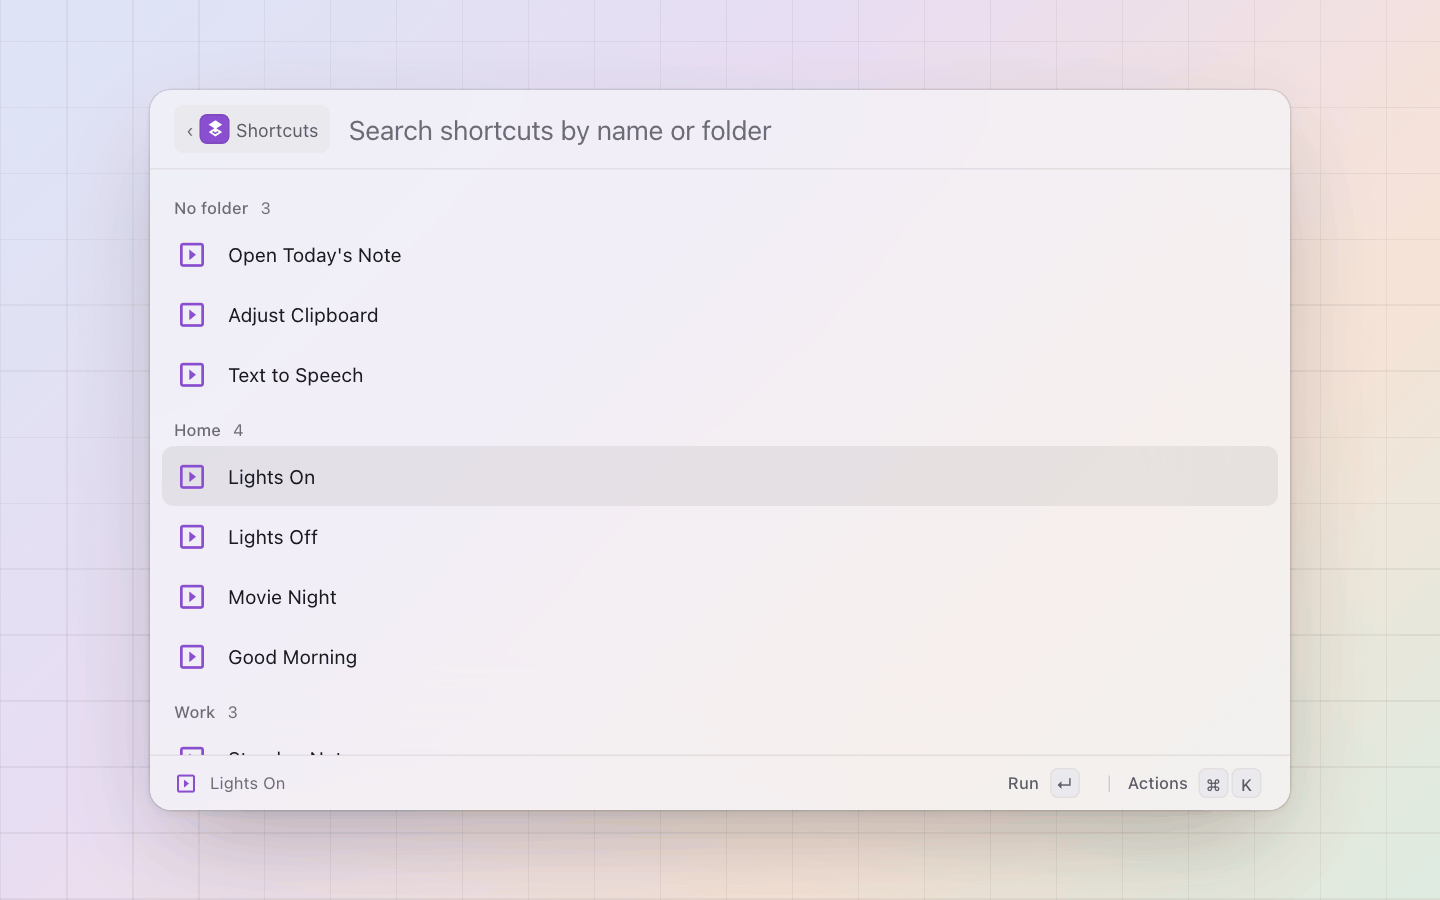
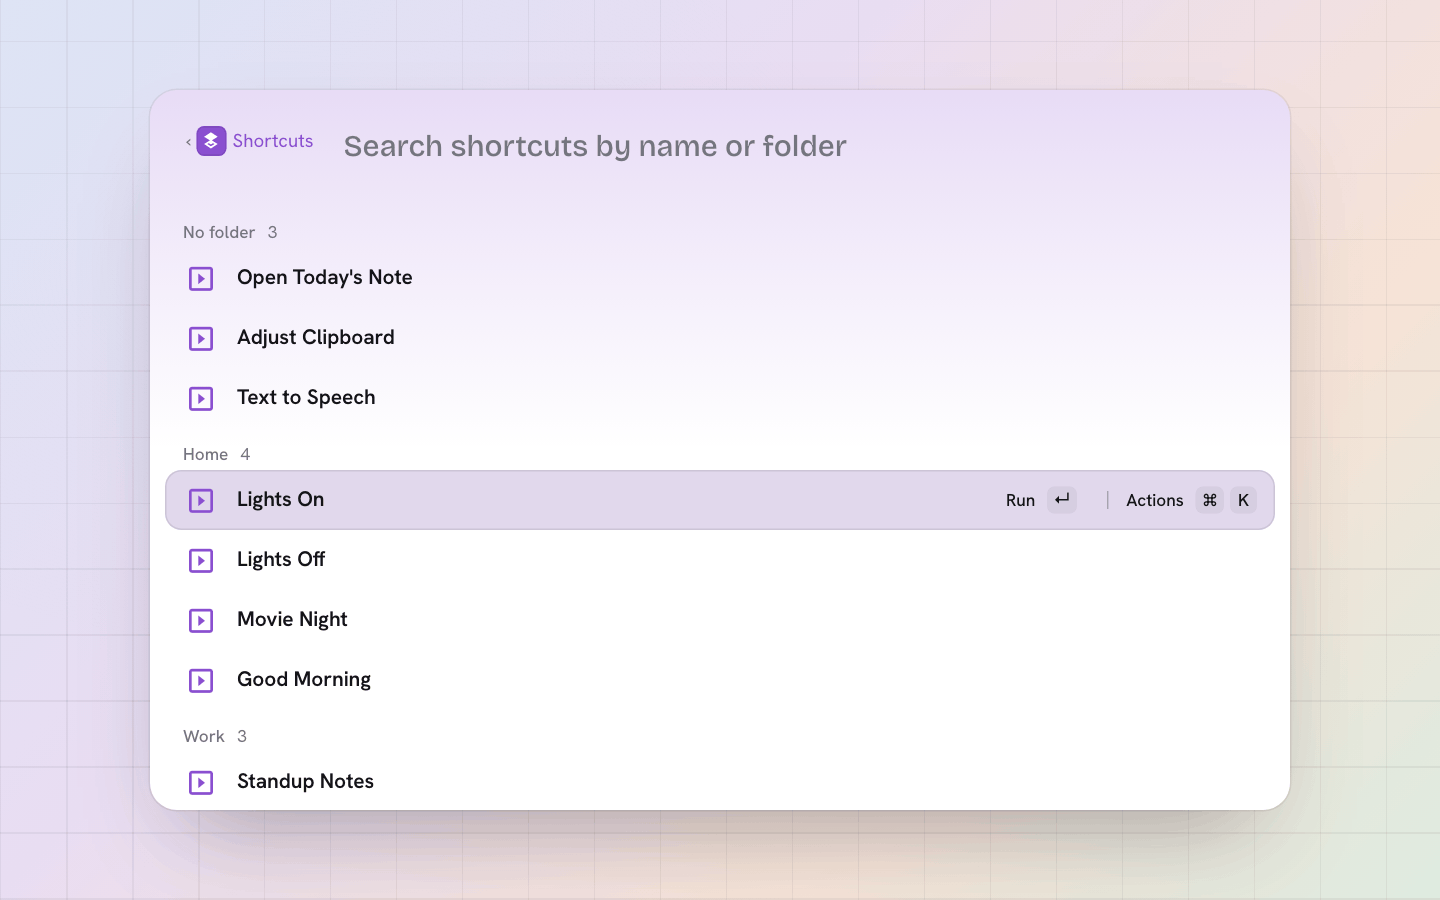
shortcuts: the detail leads with the folder and the name; Run with input named the same everywhere (the clipboard toast, the fixture, the docs); Ink screenshots

diff --git a/shortcuts/fixture.ts b/shortcuts/fixture.ts
@@ -1,7 +1,7 @@
 // Writes app/src/gallery/shots/shortcuts.json, the store screenshots'
 // fixture: rows shaped as `row()` in index.ts shapes them, from made-up
 // shortcuts in three folders (nothing is read from this Mac), plus the
-// Run with text form the shot opens. `bun run extensions/shortcuts/fixture.ts`,
+// Run with input form the shot opens. `bun run extensions/shortcuts/fixture.ts`,
 // then `node app/scripts/shots.mjs shortcuts`.
 import { pinClock, writeFixture } from "../../app/scripts/fixture-kit.ts";
 import manifest from "./pal.json" with { type: "json" };
@@ -11,7 +11,7 @@ pinClock();
 
 const ICON = "\u{f040b}";
 const ACTIONS = [
-  { id: "run", title: "Run" }, { id: "clipboard", title: "Run with clipboard" }, { id: "text", title: "Run with text…", shortcut: "cmd+t" },
+  { id: "run", title: "Run" }, { id: "clipboard", title: "Run with clipboard" }, { id: "text", title: "Run with input", shortcut: "cmd+t" },
   { id: "open", title: "Open in Shortcuts", shortcut: "cmd+o" }, { id: "copy", title: "Copy name", shortcut: "cmd+c" },
 ];
 const SHORTCUTS: [string, string | undefined][] = [
@@ -23,7 +23,7 @@ const SHORTCUTS: [string, string | undefined][] = [
 const identifier = (i: number) => `${(0x1a2b3c4d + i * 0x1111).toString(16).toUpperCase().padStart(8, "0")}-4F1E-4C3B-9A2D-${(0x5a6b7c8d9e0f + i).toString(16).toUpperCase()}`;
 const items = SHORTCUTS.map(([name, folder], i) => ({
   id: name, name, icon: ICON, section: folder || "No folder", keywords: folder ? [folder] : undefined,
-  detail: { metadata: [{ label: "Name", value: name }, ...(folder ? [{ label: "Folder", value: folder }] : []), { label: "Identifier", value: identifier(i) }] },
+  detail: { caption: folder ? `Shortcuts · ${folder}` : "Shortcuts", title: name, metadata: [{ label: "Identifier", value: identifier(i) }] },
   actions: ACTIONS,
 }));
 
@@ -40,7 +40,7 @@ const fixture = {
     "1-list": { palette: "shortcuts", keys: ["wait:300", "down*3"], caption: "Every Apple Shortcut on this Mac, grouped by its folder and searchable by name or folder" },
     "2-actions": { palette: "shortcuts", keys: ["wait:300", "down*3", "cmd+k"], caption: "Run it as it is, on the clipboard or on text you type, or open it in Shortcuts to edit" },
     "3-root": { keys: ["wait:300", "type:lights"], caption: "No need to open the palette: a shortcut's name typed at the root finds it" },
-    "4-form": { palette: "shortcuts", keys: ["wait:300", "down*7", "cmd+t", "wait:300", "type:Shipped the settings window; reviewing PRs after lunch"], caption: "Run with text: type what the shortcut receives, here the notes a Standup shortcut files" },
+    "4-form": { palette: "shortcuts", keys: ["wait:300", "down*7", "cmd+t", "wait:300", "type:Shipped the settings window; reviewing PRs after lunch"], caption: "Run with input: type what the shortcut receives, here the notes a Standup shortcut files" },
   },
 };
 writeFixture("shortcuts", fixture);

diff --git a/test/shortcuts.test.ts b/test/shortcuts.test.ts
@@ -72,7 +72,7 @@ describe("shortcuts", () => {
       ["Lights on", "Home"], ["Open App (11111111-2222-3333-4444-555555555555)", "Home"],
       ["Standup notes", "Work"],
     ]);
-    expect(items[2]).toMatchObject({ name: "Lights on", icon: "\u{f040b}", keywords: ["Home"], detail: { metadata: [{ label: "Name", value: "Lights on" }, { label: "Folder", value: "Home" }, { label: "Identifier", value: "A60321F9-5380-4AC8-BFF0-D736CE80DD10" }] } });
+    expect(items[2]).toMatchObject({ name: "Lights on", icon: "\u{f040b}", keywords: ["Home"], detail: { caption: "Shortcuts · Home", title: "Lights on", metadata: [{ label: "Identifier", value: "A60321F9-5380-4AC8-BFF0-D736CE80DD10" }] } });
     expect(items[0].keywords).toBeUndefined();
     expect(items[0].actions!.map((a) => [a.id, a.shortcut])).toEqual([["run", undefined], ["clipboard", undefined], ["text", "cmd+t"], ["open", "cmd+o"], ["copy", "cmd+c"]]);
     // Marked shortcuts run (bare or with the clipboard) and copy; the input and Open are one shortcut's.
@@ -106,7 +106,7 @@ describe("shortcuts", () => {
     expect(runs().pop()).toBe(`749DC7C9-9153-4FA6-8B1A-DE5755EB40D4\t${fixtures.clipboard[0].text}`);
     const h = await Host.bundled({ core: { "clipboard.list": () => [] } });
     await h.list("shortcuts", "shortcuts");
-    expect(await h.pick("shortcuts", "shortcuts", "Adjust Clipboard", "clipboard")).toEqual({ keep: true, toast: { title: "Nothing on the clipboard", message: "Copy some text first, or use Run with text", style: "failure" } });
+    expect(await h.pick("shortcuts", "shortcuts", "Adjust Clipboard", "clipboard")).toEqual({ keep: true, toast: { title: "Nothing on the clipboard", message: "Copy some text first, or use Run with input", style: "failure" } });
     h.kill();
   });
 

diff --git a/shortcuts/index.ts b/shortcuts/index.ts
@@ -78,7 +78,7 @@ function row(s: Shortcut): Item {
     icon: ICON,
     section: s.folder || "No folder",
     keywords: s.folder ? [s.folder] : undefined,
-    detail: { metadata: [{ label: "Name", value: s.name }, ...(s.folder ? [{ label: "Folder", value: s.folder }] : []), { label: "Identifier", value: s.identifier }] },
+    detail: { caption: s.folder ? `Shortcuts · ${s.folder}` : "Shortcuts", title: s.name, metadata: [{ label: "Identifier", value: s.identifier }] },
     args: INPUT_ARGS,
     actions: [RUN, RUN_CLIPBOARD, RUN_TEXT, OPEN, COPY_NAME],
   };
@@ -142,7 +142,7 @@ async function pick(id: string, action?: string, ctx?: Ctx): Promise<Effect | vo
     }
     case "clipboard": {
       const text = (await clipboard.list({ kind: "text", limit: 1 }))[0]?.text;
-      if (!text) return toast("Nothing on the clipboard", "Copy some text first, or use Run with text", "failure");
+      if (!text) return toast("Nothing on the clipboard", "Copy some text first, or use Run with input", "failure");
       for (const x of all) void run(x, text);
       return { hide: true };
     }
